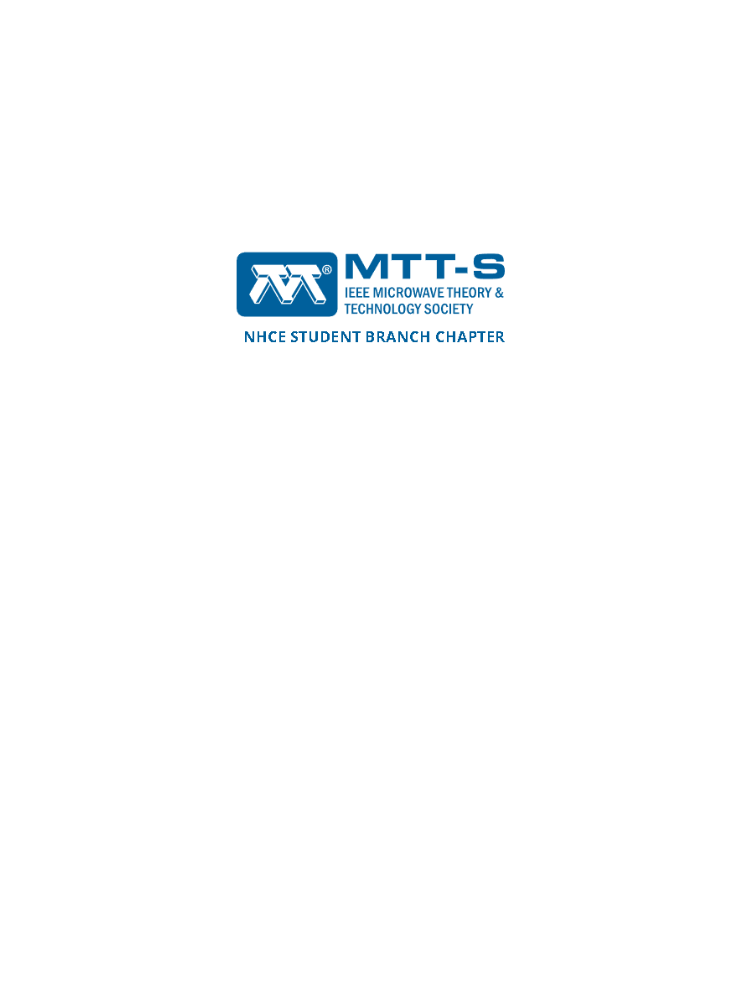
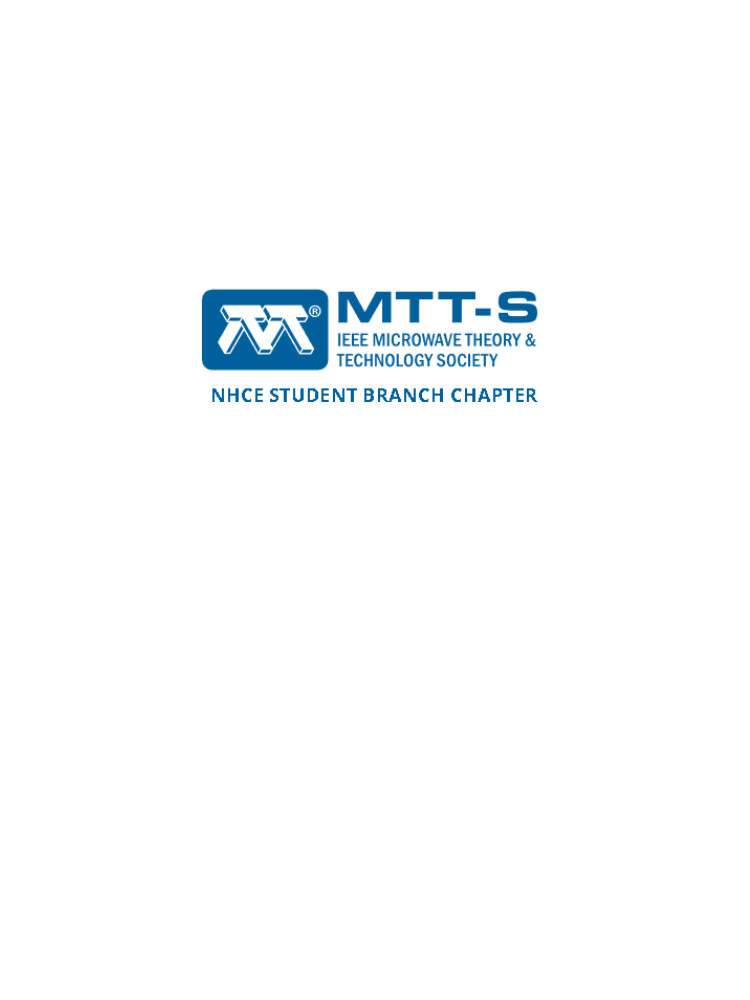
hosting sponsor added

Changed region(s): [[0.2453, 0.248, 0.736, 0.403]]

diff --git a/index.html b/index.html
@@ -195,7 +195,7 @@ https://templatemo.com/tm-584-pod-talk
                                
 
                             <div class="owl-carousel-info-wrap item">
-                                <img src="images/MTT-S.png" class="owl-carousel-image img-fluid" alt="">
+                                <img src="images/MTT-S1.png" class="owl-carousel-image img-fluid" alt="">
 
                                 <div class="owl-carousel-info">
                                     <h4 class="mb-2">
@@ -316,6 +316,9 @@ https://templatemo.com/tm-584-pod-talk
                                 </div>
                             </div-->
                         </div>
+                        
+
+
                         <div class="container mt-5 mt-lg-5">
                             <div class="row justify-content-center">
 
@@ -349,6 +352,31 @@ https://templatemo.com/tm-584-pod-talk
                                         </li>
                                         <li class="social-icon-item">
                                             <a href="https://in.linkedin.com/company/ieeeindiacouncil"
+                                                class="social-icon-link bi-linkedin"></a>
+                                        </li>
+                                    </ul>
+                                </div>
+                            </div>
+                            <div class="owl-carousel-info-wrap item">
+                                <img src="images/NHCE.png" class="owl-carousel-image img-fluid" alt="">
+
+                                <div class="owl-carousel-info">
+                                    <h4 class="mb-2">
+                                    <h3 class=mb-2>Hosting Sponsor</h3>
+                                </div>
+
+                                <div class="social-share">
+                                    <ul class="social-icon">
+                                        <li class="social-icon-item">
+                                            <a href="https://twitter.com/NHCEOfficial"
+                                                class="social-icon-link bi-twitter"></a>
+                                        </li>
+                                        <li class="social-icon-item">
+                                            <a href="https://twitter.com/NHCEOfficial"
+                                                class="social-icon-link bi-instagram"></a>
+                                        </li>
+                                        <li class="social-icon-item">
+                                            <a href="https://in.linkedin.com/school/new-horizon-college-of-engineering/"
                                                 class="social-icon-link bi-linkedin"></a>
                                         </li>
                                     </ul>
